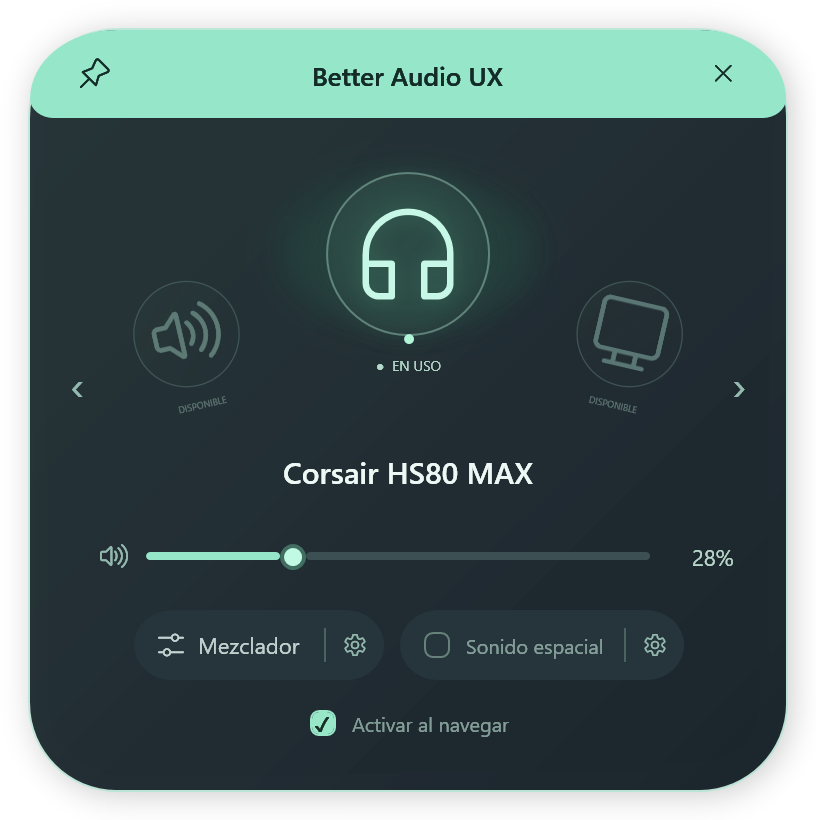
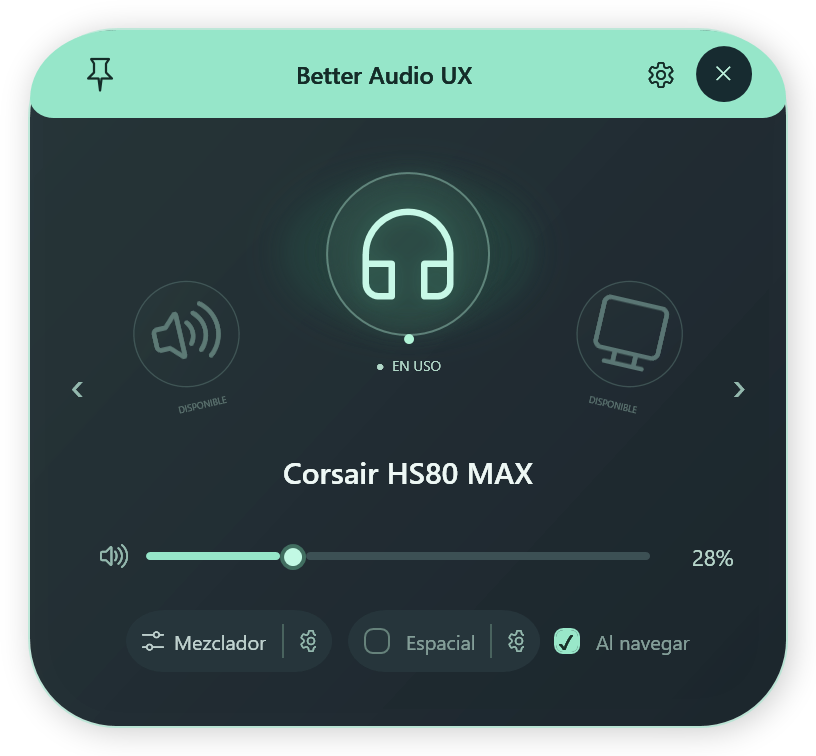
Compact audio actions and refine pin and header controls

diff --git a/AudioFlyoutApp/UI/Flyout/FlyoutWindow.xaml b/AudioFlyoutApp/UI/Flyout/FlyoutWindow.xaml
@@ -92,14 +92,17 @@
         <Grid>
         <Grid.RowDefinitions><RowDefinition Height="44"/><RowDefinition/></Grid.RowDefinitions>
         <Border CornerRadius="43,43,12,12" Background="#96E6C9"><Grid Margin="17,4">
-            <Button x:Name="PinButton" Style="{StaticResource HeaderButton}" Foreground="#142C28" FontFamily="Segoe Fluent Icons, Segoe MDL2 Assets" Content="&#xE718;" FontSize="15" HorizontalAlignment="Left" Click="Pin_Click" ToolTip="Fijar panel: mantener abierto al usar otra aplicación" AutomationProperties.Name="Fijar o desfijar panel"/>
-            <TextBlock Text="Better Audio UX" Foreground="#142C28" FontWeight="SemiBold" FontSize="13" HorizontalAlignment="Center" VerticalAlignment="Center"/>
-            <Button Style="{StaticResource HeaderButton}" Foreground="#142C28" FontFamily="Segoe Fluent Icons, Segoe MDL2 Assets" Content="&#xE711;" FontSize="12" HorizontalAlignment="Right" Click="Close_Click" ToolTip="Cerrar · Esc" AutomationProperties.Name="Cerrar overlay"/>
+            <Button x:Name="PinButton" Style="{StaticResource HeaderButton}" Foreground="#142C28" HorizontalAlignment="Left" Click="Pin_Click" ToolTip="Fijar panel: mantener abierto al usar otra aplicación" AutomationProperties.Name="Fijar o desfijar panel"><Viewbox Width="18" Height="18"><Path x:Name="PinShape" Data="M 6,2 L 18,2 L 16,5 L 16,11 L 20,15 L 13,15 L 12,23 L 11,15 L 4,15 L 8,11 L 8,5 Z" Stroke="#142C28" StrokeThickness="1.5" Fill="Transparent" StrokeLineJoin="Round"/></Viewbox></Button>
+            <TextBlock Text="Better Audio UX" Foreground="#142C28" FontWeight="SemiBold" FontSize="12" HorizontalAlignment="Center" VerticalAlignment="Center" Margin="0,0,24,0"/>
+                        <StackPanel Orientation="Horizontal" HorizontalAlignment="Right" VerticalAlignment="Center">
+                <Button Style="{StaticResource HeaderButton}" FontFamily="Segoe Fluent Icons, Segoe MDL2 Assets" Content="&#xE713;" FontSize="13" Click="AudioSettings_Click" ToolTip="Configuración general de audio" AutomationProperties.Name="Abrir configuración general de audio" Margin="0,0,3,0"/>
+                <Button Width="28" Height="28" Cursor="Hand" Click="Close_Click" ToolTip="Cerrar · Esc" AutomationProperties.Name="Cerrar overlay"><Button.Template><ControlTemplate TargetType="Button"><Border x:Name="CloseCircle" Background="#172B30" CornerRadius="14"><TextBlock Text="&#xE711;" FontFamily="Segoe Fluent Icons, Segoe MDL2 Assets" Foreground="#BFF4DE" FontSize="10" HorizontalAlignment="Center" VerticalAlignment="Center"/></Border><ControlTemplate.Triggers><Trigger Property="IsMouseOver" Value="True"><Setter TargetName="CloseCircle" Property="Background" Value="#315248"/></Trigger><Trigger Property="IsKeyboardFocused" Value="True"><Setter TargetName="CloseCircle" Property="Background" Value="#315248"/></Trigger></ControlTemplate.Triggers></ControlTemplate></Button.Template></Button>
+            </StackPanel>
         </Grid></Border>
         <Grid x:Name="OutputView" Grid.Row="1" Margin="12,8,12,14">
             <Grid.Style><Style TargetType="Grid"><Style.Triggers><DataTrigger Binding="{Binding IsMixerOpen}" Value="True"><Setter Property="Visibility" Value="Collapsed"/></DataTrigger></Style.Triggers></Style></Grid.Style>
             <Grid.RenderTransform><TranslateTransform/></Grid.RenderTransform>
-            <Grid.RowDefinitions><RowDefinition Height="148"/><RowDefinition Height="42"/><RowDefinition Height="42"/><RowDefinition Height="48"/><RowDefinition Height="28"/><RowDefinition Height="*"/></Grid.RowDefinitions>
+            <Grid.RowDefinitions><RowDefinition Height="148"/><RowDefinition Height="42"/><RowDefinition Height="42"/><RowDefinition Height="44"/><RowDefinition Height="0"/><RowDefinition Height="*"/></Grid.RowDefinitions>
             <Grid x:Name="CarouselViewport" PreviewMouseWheel="Carousel_Wheel" ClipToBounds="True">
                 <Ellipse Width="128" Height="78" VerticalAlignment="Top" HorizontalAlignment="Center" Margin="0,20,0,0" Fill="#255B4A" Opacity="0.35" IsHitTestVisible="False"><Ellipse.Effect><BlurEffect Radius="26"/></Ellipse.Effect></Ellipse>
                 <ItemsControl x:Name="Carousel" ItemsSource="{Binding Devices}">
@@ -147,20 +150,21 @@
             <StackPanel Grid.Row="3" Orientation="Horizontal" HorizontalAlignment="Center" VerticalAlignment="Center">
                 <Border CornerRadius="19" Background="#26353B" Margin="0,0,8,0">
                     <StackPanel Orientation="Horizontal">
-                        <Button Style="{StaticResource GroupButton}" Click="Mixer_Click" AutomationProperties.Name="Abrir mezclador integrado"><StackPanel Orientation="Horizontal"><TextBlock Text="&#xE9E9;" FontFamily="Segoe Fluent Icons, Segoe MDL2 Assets" FontSize="13" Margin="0,0,7,0" VerticalAlignment="Center"/><TextBlock Text="Mezclador" FontSize="11"/></StackPanel></Button>
+                        <Button Style="{StaticResource GroupButton}" Padding="8,9" Click="Mixer_Click" AutomationProperties.Name="Abrir mezclador integrado"><StackPanel Orientation="Horizontal"><TextBlock Text="&#xE9E9;" FontFamily="Segoe Fluent Icons, Segoe MDL2 Assets" FontSize="11" Margin="0,0,5,0" VerticalAlignment="Center"/><TextBlock Text="Mezclador" FontSize="10"/></StackPanel></Button>
                         <Border Width="1" Height="17" Background="#49635E" VerticalAlignment="Center"/>
-                        <Button Width="29" Style="{StaticResource IconButton}" Click="MixerSettings_Click" Content="&#xE713;" FontFamily="Segoe Fluent Icons, Segoe MDL2 Assets" FontSize="11" ToolTip="Mezclador de Windows" AutomationProperties.Name="Abrir configuración del mezclador en Windows"/>
+                        <Button Width="24" Style="{StaticResource IconButton}" Click="MixerSettings_Click" Content="&#xE713;" FontFamily="Segoe Fluent Icons, Segoe MDL2 Assets" FontSize="11" ToolTip="Mezclador de Windows" AutomationProperties.Name="Abrir configuración del mezclador en Windows"/>
                     </StackPanel>
                 </Border>
                 <Border CornerRadius="19" Background="#26353B">
                     <StackPanel Orientation="Horizontal">
-                        <CheckBox Content="Sonido espacial" Margin="12,0,10,0" FontSize="10" IsChecked="{Binding SpatialEnabled, Mode=OneWay}" IsEnabled="{Binding CanToggleSpatial}" Click="SpatialToggle_Click" ToolTip="{Binding SpatialHint}" ToolTipService.ShowOnDisabled="True" VerticalAlignment="Center" AutomationProperties.Name="Activar o desactivar sonido espacial"/>
+                        <CheckBox Content="Espacial" Margin="8,0,7,0" FontSize="10" IsChecked="{Binding SpatialEnabled, Mode=OneWay}" IsEnabled="{Binding CanToggleSpatial}" Click="SpatialToggle_Click" ToolTip="{Binding SpatialHint}" ToolTipService.ShowOnDisabled="True" VerticalAlignment="Center" AutomationProperties.Name="Activar o desactivar sonido espacial"/>
                         <Border Width="1" Height="17" Background="#49635E" VerticalAlignment="Center"/>
-                        <Button Width="29" Style="{StaticResource IconButton}" Click="Spatial_Click" IsEnabled="{Binding HasDevices}" Content="&#xE713;" FontFamily="Segoe Fluent Icons, Segoe MDL2 Assets" FontSize="11" ToolTip="Proveedores y propiedades de sonido espacial en Windows" AutomationProperties.Name="Configurar sonido espacial en Windows"/>
+                        <Button Width="24" Style="{StaticResource IconButton}" Click="Spatial_Click" IsEnabled="{Binding HasDevices}" Content="&#xE713;" FontFamily="Segoe Fluent Icons, Segoe MDL2 Assets" FontSize="11" ToolTip="Proveedores y propiedades de sonido espacial en Windows" AutomationProperties.Name="Configurar sonido espacial en Windows"/>
                     </StackPanel>
                 </Border>
+            <CheckBox Content="Al navegar" Margin="7,0,0,0" FontSize="10" IsChecked="{Binding AutoSwitchOnNavigation, Mode=TwoWay}" HorizontalAlignment="Center" VerticalAlignment="Center" ToolTip="Cambia la salida al recorrer el arco. Desmarcá para confirmar con clic o Enter." AutomationProperties.Name="Activar dispositivo al navegar"/>
             </StackPanel>
-            <CheckBox Grid.Row="4" Content="Activar al navegar" IsChecked="{Binding AutoSwitchOnNavigation, Mode=TwoWay}" HorizontalAlignment="Center" VerticalAlignment="Center" ToolTip="Cambia la salida al recorrer el arco. Desmarcá para confirmar con clic o Enter." AutomationProperties.Name="Activar dispositivo al navegar"/>
+
             <TextBlock Grid.Row="5" Text="{Binding Message}" Foreground="#EBC9AA" Background="#ED17242B" FontSize="9" TextAlignment="Center" TextWrapping="Wrap" VerticalAlignment="Top" MaxWidth="330" Margin="0,-1,0,0" Visibility="{Binding HasMessage, Converter={StaticResource VisibleIf}}" AutomationProperties.LiveSetting="Polite"/>
         </Grid>
         <Grid x:Name="MixerView" Grid.Row="1" Margin="20,8,20,18">
@@ -205,6 +209,7 @@
         </Grid>
     </Border>
 </Window>
+
 
 
 

diff --git a/AudioFlyoutApp/UI/Flyout/FlyoutWindow.xaml.cs b/AudioFlyoutApp/UI/Flyout/FlyoutWindow.xaml.cs
@@ -140,7 +140,7 @@ public partial class FlyoutWindow : Window
     }
     private void UpdatePin()
     {
-        PinButton.Content = KeepOpen ? "" : "";
+        PinShape.Fill = KeepOpen ? new System.Windows.Media.SolidColorBrush(System.Windows.Media.Color.FromRgb(20, 44, 40)) : System.Windows.Media.Brushes.Transparent;
         PinButton.ToolTip = KeepOpen ? "Desfijar panel: cerrar al perder el foco" : "Fijar panel: mantener abierto al usar otra aplicación";
         System.Windows.Automation.AutomationProperties.SetItemStatus(PinButton, KeepOpen ? "Fijado" : "Sin fijar");
     }
@@ -157,6 +157,7 @@ public partial class FlyoutWindow : Window
     private async void Mute_Click(object sender, RoutedEventArgs e) => await ViewModel.ToggleMuteAsync();
     private async void Retry_Click(object sender, RoutedEventArgs e) => await ViewModel.RefreshAsync();
     private async void Mixer_Click(object sender, RoutedEventArgs e) => await ViewModel.OpenMixerAsync();
+    private void AudioSettings_Click(object sender, RoutedEventArgs e) => OpenSettings("ms-settings:sound");
     private void MixerSettings_Click(object sender, RoutedEventArgs e) => OpenSettings("ms-settings:apps-volume");
     private async void Back_Click(object sender, RoutedEventArgs e) => await ViewModel.CloseMixerAsync();
     private async void SpatialToggle_Click(object sender, RoutedEventArgs e)
@@ -240,5 +241,6 @@ public partial class FlyoutWindow : Window
     }
     public void CloseForExit() { _allowClose = true; ViewModel.PropertyChanged -= ViewModel_Changed; Close(); }
 }
+
 
 

diff --git a/AudioFlyoutApp.Tests/Program.cs b/AudioFlyoutApp.Tests/Program.cs
@@ -135,13 +135,13 @@ internal static class Program
         try
         {
             var root = (System.Windows.FrameworkElement)window.Content;
-            root.Measure(new System.Windows.Size(408, 410));
-            root.Arrange(new System.Windows.Rect(0, 0, 408, 410));
+            root.Measure(new System.Windows.Size(408, 378));
+            root.Arrange(new System.Windows.Rect(0, 0, 408, 378));
             root.UpdateLayout();
             var carousel = (System.Windows.Controls.ItemsControl)window.FindName("Carousel");
             Check(carousel.ItemContainerGenerator.ContainerFromIndex(1) is not null,
                 "First HUD layout generates its radial items host with a preselected device");
-            Check(window.Width == 408 && window.Height == 410 && window.AllowsTransparency,
+            Check(window.Width == 408 && window.Height == 378 && window.AllowsTransparency,
                 "HUD loads its compact dimensions and transparent window bindings");
             var pin = (System.Windows.Controls.Button)window.FindName("PinButton");
             pin.RaiseEvent(new System.Windows.RoutedEventArgs(System.Windows.Controls.Button.ClickEvent));
@@ -420,5 +420,6 @@ internal static class Program
         public bool AutoSwitchOnNavigation { get; set; } = initial;
     }
 }
+
 
 

diff --git a/AudioFlyoutApp/UI/ViewModels/FlyoutViewModel.cs b/AudioFlyoutApp/UI/ViewModels/FlyoutViewModel.cs
@@ -63,7 +63,7 @@ public sealed partial class FlyoutViewModel : INotifyPropertyChanged, IDisposabl
     public string VolumeGlyph => _muted || _volume == 0 ? "\uE74F" : "\uE767";
     public string MuteLabel => _muted ? "Activar sonido (M)" : "Silenciar (M)";
     public string Message { get => _message; private set { _message = value; Notify(); Notify(nameof(HasMessage)); Notify(nameof(HudHeight)); } }
-    public double HudHeight => (IsMixerOpen ? 482 : 410) + (HasMessage ? 28 : 0);
+    public double HudHeight => (IsMixerOpen ? 482 : 378) + (HasMessage ? 28 : 0);
     public bool HasMessage => !string.IsNullOrEmpty(Message);
     public int Volume
     {
@@ -240,4 +240,5 @@ public sealed partial class FlyoutViewModel : INotifyPropertyChanged, IDisposabl
         _sessionWriteTimer?.Stop();
     }
 }
+
 

diff --git a/README.md b/README.md
@@ -4,7 +4,7 @@ Un pequeño HUD para Windows 11 que pone tus salidas de audio y el volumen de tu
 
 Better Audio UX vive en la bandeja del sistema. Su objetivo es reducir los pasos necesarios para cambiar de auriculares a altavoces, ajustar el volumen o silenciar una aplicación, manteniendo una interfaz compacta y accesible con mouse y teclado.
 
-Es un side project de escritorio desarrollado con **C#, WPF y .NET 10 LTS**. Versión actual: **1.2.2**.
+Es un side project de escritorio desarrollado con **C#, WPF y .NET 10 LTS**. Versión actual: **1.2.3**.
 
 ## Así se ve
 
@@ -107,3 +107,8 @@ Utiliza NAudio.Wasapi/NAudio.Core (MIT), el runtime de .NET y **SoundVolumeComma
 **El componente de NirSoft es freeware con restricciones:** permite redistribución gratuita con todos sus archivos originales, pero prohíbe venderlo o incluirlo en un producto comercial. El paquete conserva los originales y verifica su hash al compilar. Antes de una distribución comercial, es necesario sustituir ese backend u obtener autorización del titular.
 
 Consultá [THIRD-PARTY-NOTICES.md](THIRD-PARTY-NOTICES.md) y el [readme original de NirSoft](ThirdParty/SoundVolumeCommandLine/readme.txt). Las licencias de las dependencias no conceden una licencia sobre el código propio del proyecto.
+
+## Interfaz compacta 1.2.3
+
+Mezclador, Espacial y Al navegar comparten una fila. El pin es de contorno cuando está desfijado y sólido al fijarlo. El encabezado incluye acceso a la configuración general de audio y un cierre circular oscuro. La vista principal mide 408 × 378 DIPs.
+
